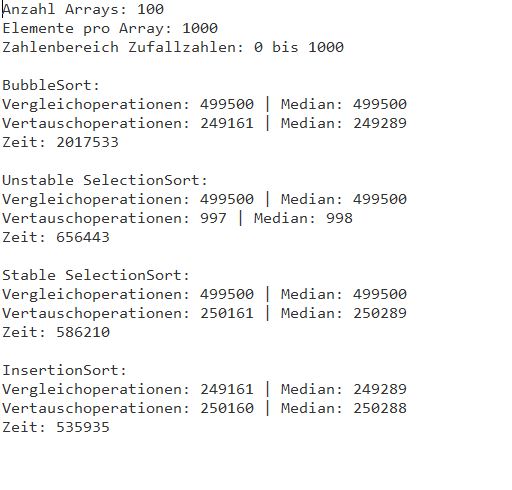
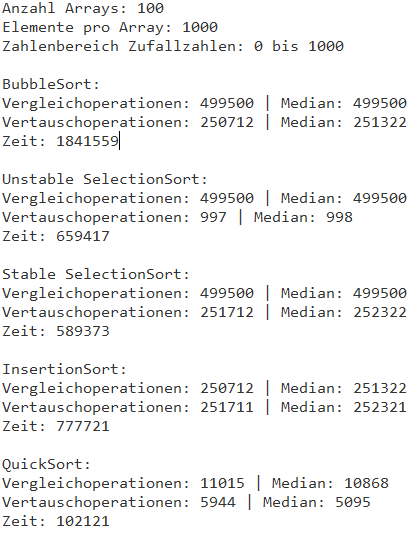
ALGO

diff --git a/4.Klasse/SWP_ALGO/Hausübungen/Aufgabe8/Sortieralgorithmen/src/Sortieralgorithmen.java b/4.Klasse/SWP_ALGO/Hausübungen/Aufgabe8/Sortieralgorithmen/src/Sortieralgorithmen.java
@@ -14,13 +14,16 @@ public class Sortieralgorithmen {
 	private static ArrayList<Integer> vergleichO_SS=new ArrayList<Integer>();
 	private static ArrayList<Integer> vertauschO_IS=new ArrayList<Integer>();
 	private static ArrayList<Integer> vergleichO_IS=new ArrayList<Integer>();
-	private static int[] vergleichO=new int[4];
-	private static int[] vertauschO=new int[4];
+	private static ArrayList<Integer> vertauschO_QS=new ArrayList<Integer>();
+	private static ArrayList<Integer> vergleichO_QS=new ArrayList<Integer>();
+	private static int[] vergleichO=new int[5];
+	private static int[] vertauschO=new int[5];
 	static int[] zahlen=new int[anzahl];
 	static long bubbleSort_zeit;
 	static long unstableSelectionSort_zeit;
 	static long stableSelectionSort_zeit;
 	static long insertionSort_zeit;
+	static long quickSort_zeit;
 	
 	public static void main(String[] args) {
 		for (int i = 0; i < counterA; i++) {
@@ -32,6 +35,8 @@ public class Sortieralgorithmen {
 			stableSelectionSort(zufallszahlen);
 			gleichsetzen();
 			insertionSort(zufallszahlen);
+			gleichsetzen();
+			quickSort_Main(zufallszahlen);
 		}
 		werte();
 		ausgabe();
@@ -46,6 +51,8 @@ public class Sortieralgorithmen {
 		Collections.sort(vergleichO_US);
 		Collections.sort(vergleichO_SS);
 		Collections.sort(vergleichO_IS);
+		Collections.sort(vergleichO_QS);
+		Collections.sort(vergleichO_QS);
 		for(int i=0; i<vertauschO_BS.size(); i++) {
 			vertauschO[0]=vertauschO[0]+vertauschO_BS.get(i);
 		}
@@ -69,6 +76,12 @@ public class Sortieralgorithmen {
 		}
 		for(int i=0; i<vergleichO_IS.size(); i++) {
 			vergleichO[3]=vergleichO[3]+vergleichO_IS.get(i);
+		}
+		for(int i=0; i<vertauschO_QS.size(); i++) {
+			vertauschO[4]=vertauschO[4]+vertauschO_QS.get(i);
+		}
+		for(int i=0; i<vergleichO_QS.size(); i++) {
+			vergleichO[4]=vergleichO[4]+vergleichO_QS.get(i);
 		}
 	}
 	
@@ -96,6 +109,11 @@ public class Sortieralgorithmen {
 		System.out.println("Vergleichoperationen: "+vergleichO[3]/counterA+" | Median: "+vergleichO_IS.get((counterA/2)-1));
 		System.out.println("Vertauschoperationen: "+vertauschO[3]/counterA+" | Median: "+vertauschO_IS.get((counterA/2)-1));
 		System.out.println("Zeit: "+insertionSort_zeit/counterA);
+		System.out.println();
+		System.out.println("QuickSort: ");
+		System.out.println("Vergleichoperationen: "+vergleichO[4]/counterA+" | Median: "+vergleichO_QS.get((counterA/2)-1));
+		System.out.println("Vertauschoperationen: "+vertauschO[4]/counterA+" | Median: "+vertauschO_QS.get((counterA/2)-1));
+		System.out.println("Zeit: "+quickSort_zeit/counterA);
 	}
 	
 	public static void gleichsetzen() {
@@ -206,5 +224,48 @@ public class Sortieralgorithmen {
 		insertionSort_zeit=insertionSort_zeit+System.nanoTime()-start;
 		vertauschO_IS.add(counter_a);
 		vergleichO_IS.add(counter_b);
+	}
+	
+	static int counter_vert=0;
+	static int counter_verg=0;
+	
+	public static void quickSort_Main(int[] zahlen) {
+		counter_verg=0;
+		counter_vert=0;
+		int n=zahlen.length;
+		long start=System.nanoTime();
+		quickSort(zahlen, 0, n-1);
+		quickSort_zeit=quickSort_zeit+System.nanoTime()-start;
+		vertauschO_QS.add(counter_vert);
+		vergleichO_QS.add(counter_verg);
+	}
+	
+	public static void swap(int[] zahlen, int i, int j) {
+		counter_vert++;
+		int a=zahlen[i];
+		zahlen[i]=zahlen[j];
+		zahlen[j]=a;
+	}
+	
+	public static int partition(int[] zahlen, int low, int high) {
+		int pivot=zahlen[high];
+		int i=(low-1);
+		for(int j=low; j<=high-1; j++) {
+			if(zahlen[j]<pivot) {
+				i++;
+				swap(zahlen, i, j);
+			}
+			counter_verg++;
+		}
+		swap(zahlen, i+1, high);
+		return (i+1);
+	}
+	
+	public static void quickSort(int[] zahlen, int low, int high) {
+		if(low<high) {
+			int pi=partition(zahlen, low, high);
+			quickSort(zahlen, low, pi-1);
+			quickSort(zahlen, pi+1, high);
+		}
 	}
 }

diff --git a/4.Klasse/SWP_ALGO/Hausübungen/Aufgabe8/README.md b/4.Klasse/SWP_ALGO/Hausübungen/Aufgabe8/README.md
@@ -14,6 +14,7 @@ Das Programm vergleicht mehrere Sortieralgorithmen:
 * Unstable Selection Sort
 * Stable Selection Sort
 * Insertion Sort
+* Quick Sort
 
 Es werden jeweils die durchschnittlich benötigten Zeiten und die durchschnittliche Anzahl der 
 Vergleich- sowie der Vertauschoperationen für die Sortierung von Zufallszahlen ermittelt.
